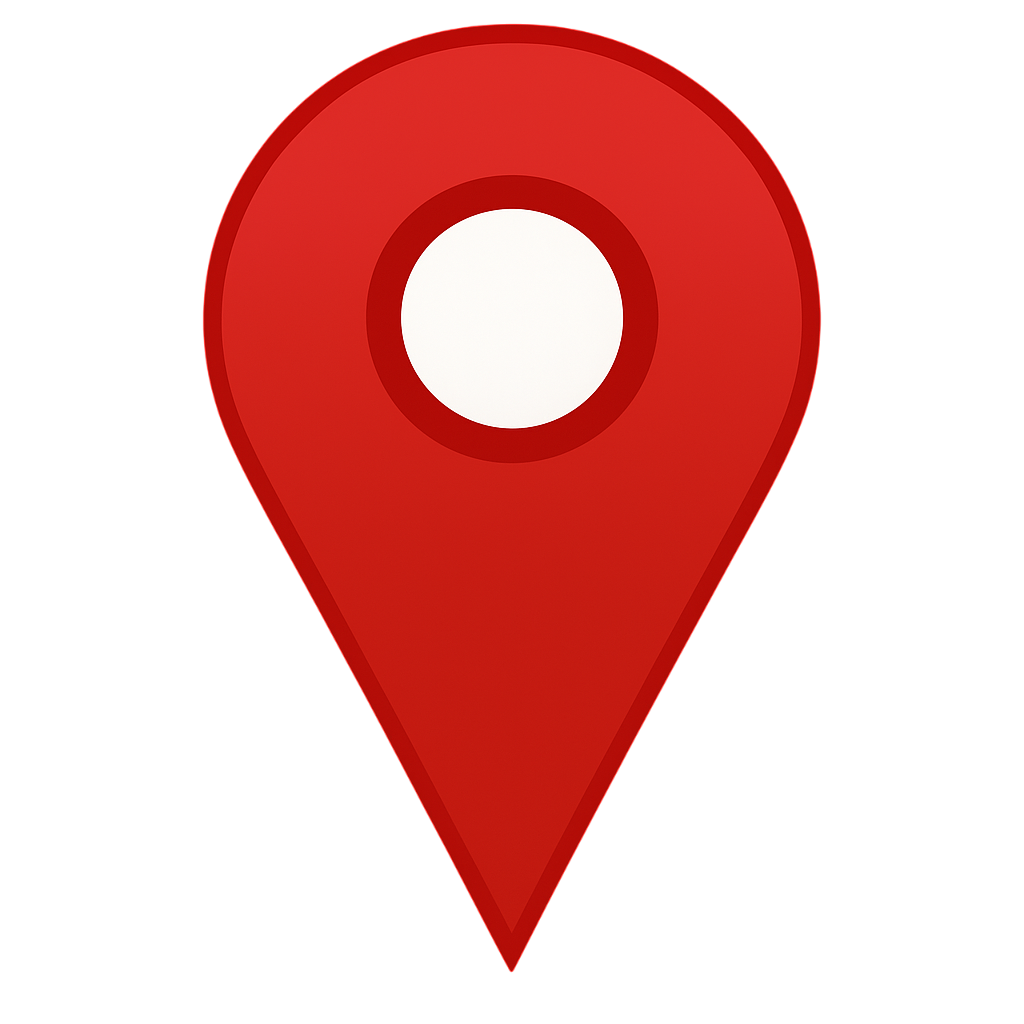
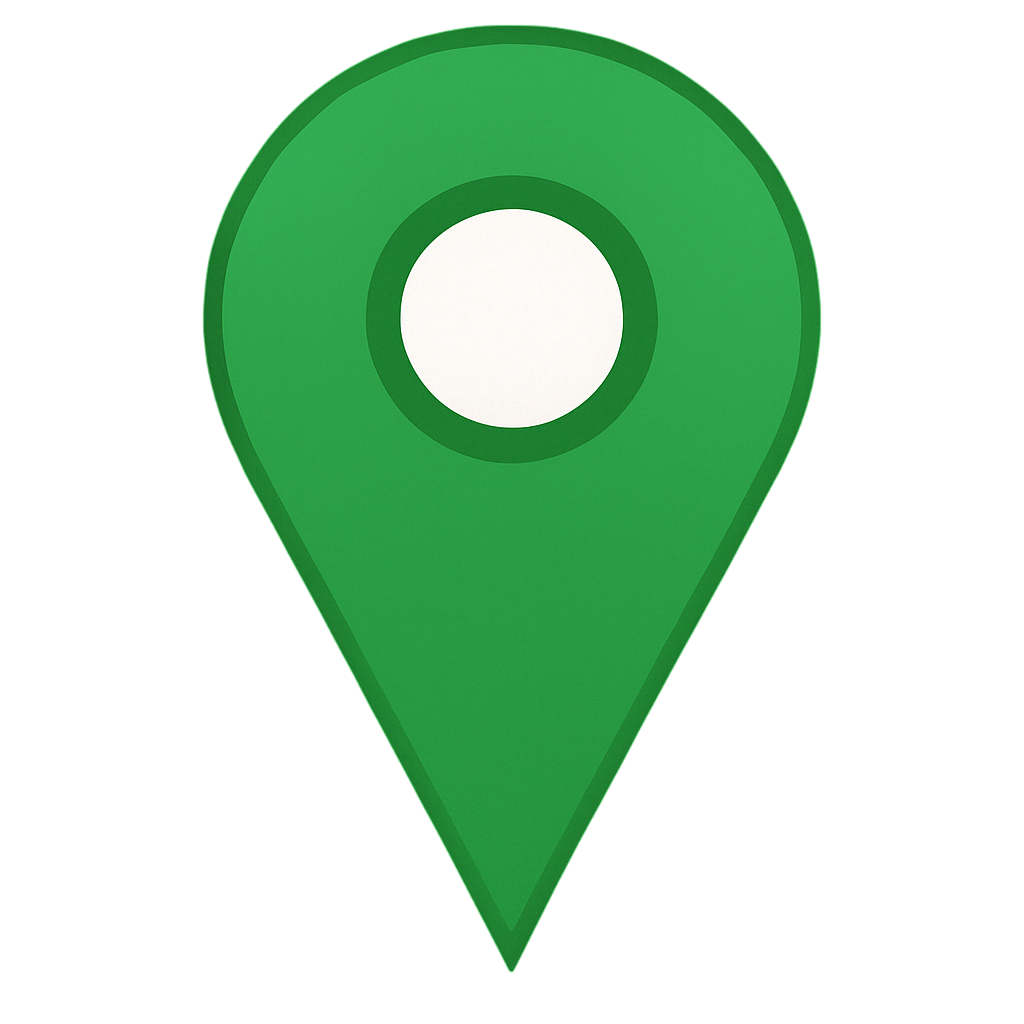
Переделал обозначения Онлайн и Оффлайн мероприятий на зеленый и красный

diff --git a/frontend/eventhub/src/components/events/EventsPage.js b/frontend/eventhub/src/components/events/EventsPage.js
@@ -27,7 +27,7 @@ const onlineIcon = new leaflet.Icon({
 const offlineIcon = new leaflet.Icon({
   iconUrl: offlineIconImg,
   shadowUrl: iconShadow,
-  iconSize: [25, 41],
+  iconSize: [41, 41],
   iconAnchor: [12, 41],
 });
 
@@ -187,7 +187,7 @@ class EventsPage extends Component {
                         Показать на карте
                       </button>
                     </div>
-                    <div className="event-format">
+                    <div className={"event-format " + event.format.toLowerCase()}>
                       {event.format === "ONLINE" ? "Онлайн" : "Оффлайн"}
                     </div>
                   </div>

diff --git a/frontend/eventhub/src/css/EventsPage.css b/frontend/eventhub/src/css/EventsPage.css
@@ -202,8 +202,14 @@
   
   .event-format {
     font-size: 0.75rem;
-    color: #888;
     font-style: italic;
+  }
+  .online {
+    color: green;
+  }
+
+  .offline {
+    color: red;
   }
   
   .map-container {
